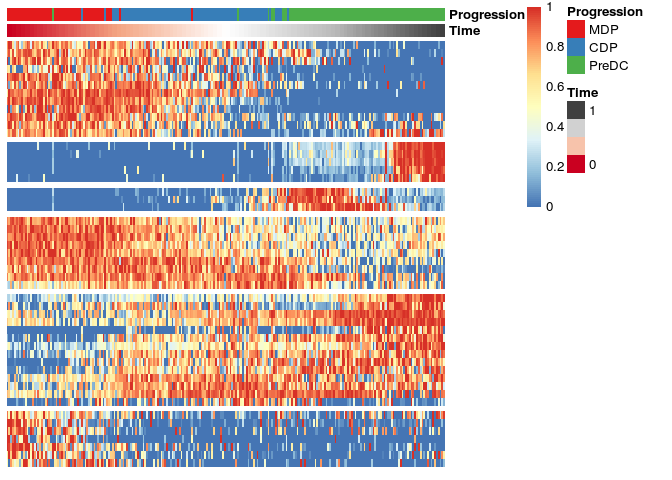
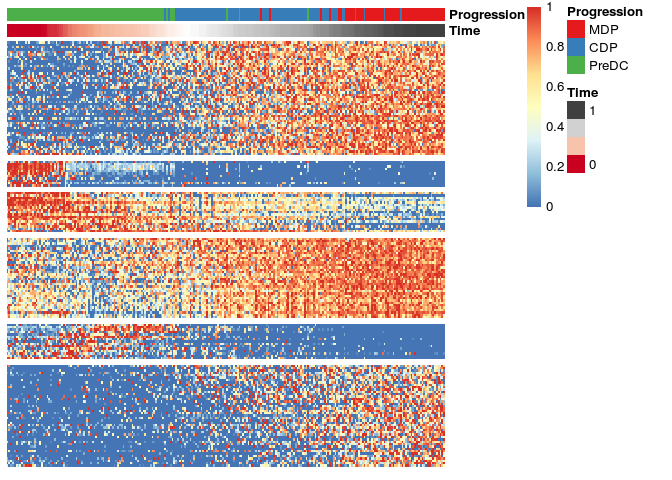
Updated links on README

diff --git a/README.md b/README.md
@@ -1,5 +1,5 @@
 <!-- github markdown built using 
-render("README.Rmd", output_format = "md_document")
+rmarkdown::render("README.Rmd", output_format = "md_document")
 -->
 SCORPIUS
 ========
@@ -13,6 +13,8 @@ SCORPIUS
 -   **It automatically identifies marker genes, speeding up knowledge discovery.**
 
 -   **It is fully unsupervised.** Prior knowledge of the relevant marker genes or cellular states of individual cells is not required.
+
+-   A preprint is available on [bioRxiv](http://biorxiv.org/content/early/2016/10/06/079509)
 
 Installing SCORPIUS
 -------------------
@@ -97,8 +99,27 @@ draw.trajectory.plot(space, group.name, traj$path)
 To identify and visualise candidate marker genes, execute the following code:
 
 ``` r
-gimp <- gene.importances(expression, traj$time, num.permutations = 0)
-gene.sel <- gimp$gene[1:50]
+# warning: setting num.permutations to 10 requires a long time (~30min) to run!
+# set it to 0 and define a manual cutoff for the genes (e.g. top 200) for a much shorter execution time.
+gimp <- gene.importances(expression, traj$time, num.permutations = 10) 
+```
+
+    ## 
+       |                                                  | 0 % ~calculating  
+       |+++++                                             | 10% ~25m 53s      
+       |++++++++++                                        | 20% ~22m 31s      
+       |+++++++++++++++                                   | 30% ~19m 59s      
+       |++++++++++++++++++++                              | 40% ~17m 07s      
+       |+++++++++++++++++++++++++                         | 50% ~14m 22s      
+       |++++++++++++++++++++++++++++++                    | 60% ~11m 27s      
+       |+++++++++++++++++++++++++++++++++++               | 70% ~08m 40s      
+       |++++++++++++++++++++++++++++++++++++++++         | 80% ~05m 49s      
+       |+++++++++++++++++++++++++++++++++++++++++++++    | 90% ~02m 56s      
+       |++++++++++++++++++++++++++++++++++++++++++++++++++| 100% elapsed = 29m 19s
+
+``` r
+gimp$qvalue <- p.adjust(gimp$pvalue, "BH", length(gimp$pvalue))
+gene.sel <- gimp$gene[gimp$qvalue < .05]
 expr.sel <- quant.scale(expression[,gene.sel])
 modules <- extract.modules(expr.sel)
 
@@ -121,6 +142,8 @@ draw.trajectory.heatmap(expr.sel, traj.sel$time, group.name, modules, scale.feat
 Related approaches
 ------------------
 
+-   [Check out our review on Trajectory Inference methods!](http://onlinelibrary.wiley.com/doi/10.1002/eji.201646347/full)
+-   [Wanderlust](http://www.c2b2.columbia.edu/danapeerlab/html/wanderlust.html)
 -   [Monocle](https://bioconductor.org/packages/release/bioc/html/monocle.html)
 -   [Waterfall](http://dx.doi.org/10.1016/j.stem.2015.07.013)
 -   [Embeddr](https://github.com/kieranrcampbell/embeddr)
